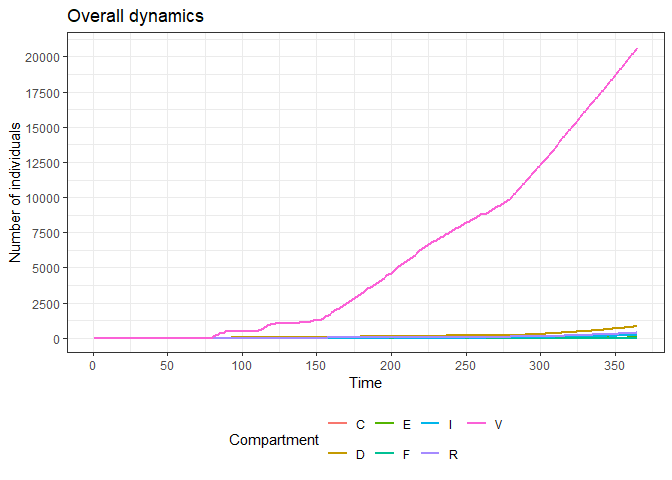
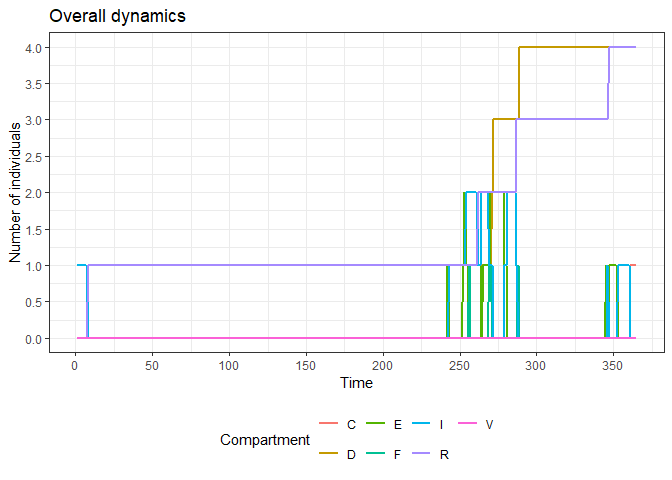
trying new seed

diff --git a/README.md b/README.md
@@ -19,19 +19,8 @@ We load required libraries:
 
 ``` r
 library(tidyverse)
-#> ── Attaching core tidyverse packages ──────────────────────── tidyverse 2.0.0 ──
-#> ✔ dplyr     1.1.4     ✔ readr     2.1.5
-#> ✔ forcats   1.0.1     ✔ stringr   1.6.0
-#> ✔ ggplot2   4.0.1     ✔ tibble    3.3.0
-#> ✔ lubridate 1.9.4     ✔ tidyr     1.3.1
-#> ✔ purrr     1.2.0     
-#> ── Conflicts ────────────────────────────────────────── tidyverse_conflicts() ──
-#> ✖ dplyr::filter() masks stats::filter()
-#> ✖ dplyr::lag()    masks stats::lag()
-#> ℹ Use the conflicted package (<http://conflicted.r-lib.org/>) to force all conflicts to become errors
 library(rio)
 library(here)
-#> here() starts at C:/dev/geomatys/ebola_model_odin
 library(odin)
 ```
 
@@ -45,7 +34,7 @@ model_generator <- odin::odin(path_model)
 #> Loading required namespace: pkgbuild
 #> Generating model in c
 #> ℹ Re-compiling ebolae1b5f94f (debug build)
-#> ── R CMD INSTALL ───────────────────────────────────────────────────────────────
+#> ── R CMD INSTALL ────────────────────────────────────────────────────────────────────
 #>   ─  installing *source* package 'ebolae1b5f94f' ...
 #>      ** this is package 'ebolae1b5f94f' version '0.0.1'
 #>    ** using staged installation
@@ -54,7 +43,7 @@ model_generator <- odin::odin(path_model)
 #>      gcc  -I"C:/PROGRA~1/R/R-45~1.2/include" -DNDEBUG     -I"C:/rtools45/x86_64-w64-mingw32.static.posix/include"      -O2 -Wall -std=gnu2x -gdwarf-2 -mfpmath=sse -msse2 -mstackrealign   -UNDEBUG -Wall -pedantic -g -O0 -c odin.c -o odin.o
 #>      gcc  -I"C:/PROGRA~1/R/R-45~1.2/include" -DNDEBUG     -I"C:/rtools45/x86_64-w64-mingw32.static.posix/include"      -O2 -Wall -std=gnu2x -gdwarf-2 -mfpmath=sse -msse2 -mstackrealign   -UNDEBUG -Wall -pedantic -g -O0 -c registration.c -o registration.o
 #>      gcc -shared -static-libgcc -o ebolae1b5f94f.dll tmp.def odin.o registration.o -LC:/rtools45/x86_64-w64-mingw32.static.posix/lib/x64 -LC:/rtools45/x86_64-w64-mingw32.static.posix/lib -LC:/PROGRA~1/R/R-45~1.2/bin/x64 -lR
-#>      installing to C:/Users/thiba/AppData/Local/Temp/RtmpALtBz0/devtools_install_56144d2622e/00LOCK-file561419d45730/00new/ebolae1b5f94f/libs/x64
+#>      installing to C:/Users/thiba/AppData/Local/Temp/RtmpWWTB2r/devtools_install_40ec33973f1e/00LOCK-file40ec1b9969cd/00new/ebolae1b5f94f/libs/x64
 #>   ─  DONE (ebolae1b5f94f)
 #> 
 #> ℹ Loading ebolae1b5f94f
@@ -114,14 +103,14 @@ dim(patches)
 #> [1] 857   9
 head(patches)
 #> # A tibble: 6 × 9
-#>      V1     x     y     eta pop_size area_sqkm cell.id mean_intros weight_intros
-#>   <int> <dbl> <dbl>   <dbl>    <int>     <dbl>   <int>       <dbl>         <dbl>
-#> 1     1  19.1 -4.02 3.02e-9     1114      21.3  1.85e7    0.00123      0.000696 
-#> 2     2  19.2 -4.02 2.69e-9     3357      21.3  1.85e7    0.00330      0.00187  
-#> 3     3  19.2 -4.02 1.77e-9     2070      21.3  1.85e7    0.00134      0.000757 
-#> 4     4  19.2 -4.02 1.89e-9      155      21.3  1.85e7    0.000107     0.0000607
-#> 5     5  19.3 -4.02 3.01e-9     2911      21.3  1.85e7    0.00320      0.00181  
-#> 6     6  19.3 -4.02 3.02e-9      859      21.3  1.85e7    0.000945     0.000536
+#>      V1     x     y          eta pop_size area_sqkm cell.id mean_intros weight_intros
+#>   <int> <dbl> <dbl>        <dbl>    <int>     <dbl>   <int>       <dbl>         <dbl>
+#> 1     1  19.1 -4.02      3.02e-9     1114      21.3  1.85e7    0.00123      0.000696 
+#> 2     2  19.2 -4.02      2.69e-9     3357      21.3  1.85e7    0.00330      0.00187  
+#> 3     3  19.2 -4.02      1.77e-9     2070      21.3  1.85e7    0.00134      0.000757 
+#> 4     4  19.2 -4.02      1.89e-9      155      21.3  1.85e7    0.000107     0.0000607
+#> 5     5  19.3 -4.02      3.01e-9     2911      21.3  1.85e7    0.00320      0.00181  
+#> 6     6  19.3 -4.02      3.02e-9      859      21.3  1.85e7    0.000945     0.000536
 ```
 
 We read in the connectivity matrix between the 857 populations
@@ -196,7 +185,7 @@ ini_I <- rmultinom(
   as.integer()
 
 ## draw random parameters
-set.seed(123)
+set.seed(12)
 alpha <- r_alpha(1)
 gamma <- r_gamma(1)
 beta <- r_beta(gamma)
@@ -253,10 +242,10 @@ Here we illustrate a single model run for 365 days (one run takes about
 10-20s on a standard desktop).
 
 ``` r
-set.seed(123)
+set.seed(12)
 system.time(res <- model$run(1:365))
 #>    user  system elapsed 
-#>   12.64    0.04   12.69
+#>   12.02    0.08   12.20
 class(res)
 #> [1] "matrix" "array"
 dim(res)
@@ -320,8 +309,7 @@ res_smry %>%
 #> Warning: Using `size` aesthetic for lines was deprecated in ggplot2 3.4.0.
 #> ℹ Please use `linewidth` instead.
 #> This warning is displayed once every 8 hours.
-#> Call `lifecycle::last_lifecycle_warnings()` to see where this warning was
-#> generated.
+#> Call `lifecycle::last_lifecycle_warnings()` to see where this warning was generated.
 ```
 
 <img src="figures/unnamed-chunk-10-1.png" width="65%" />
